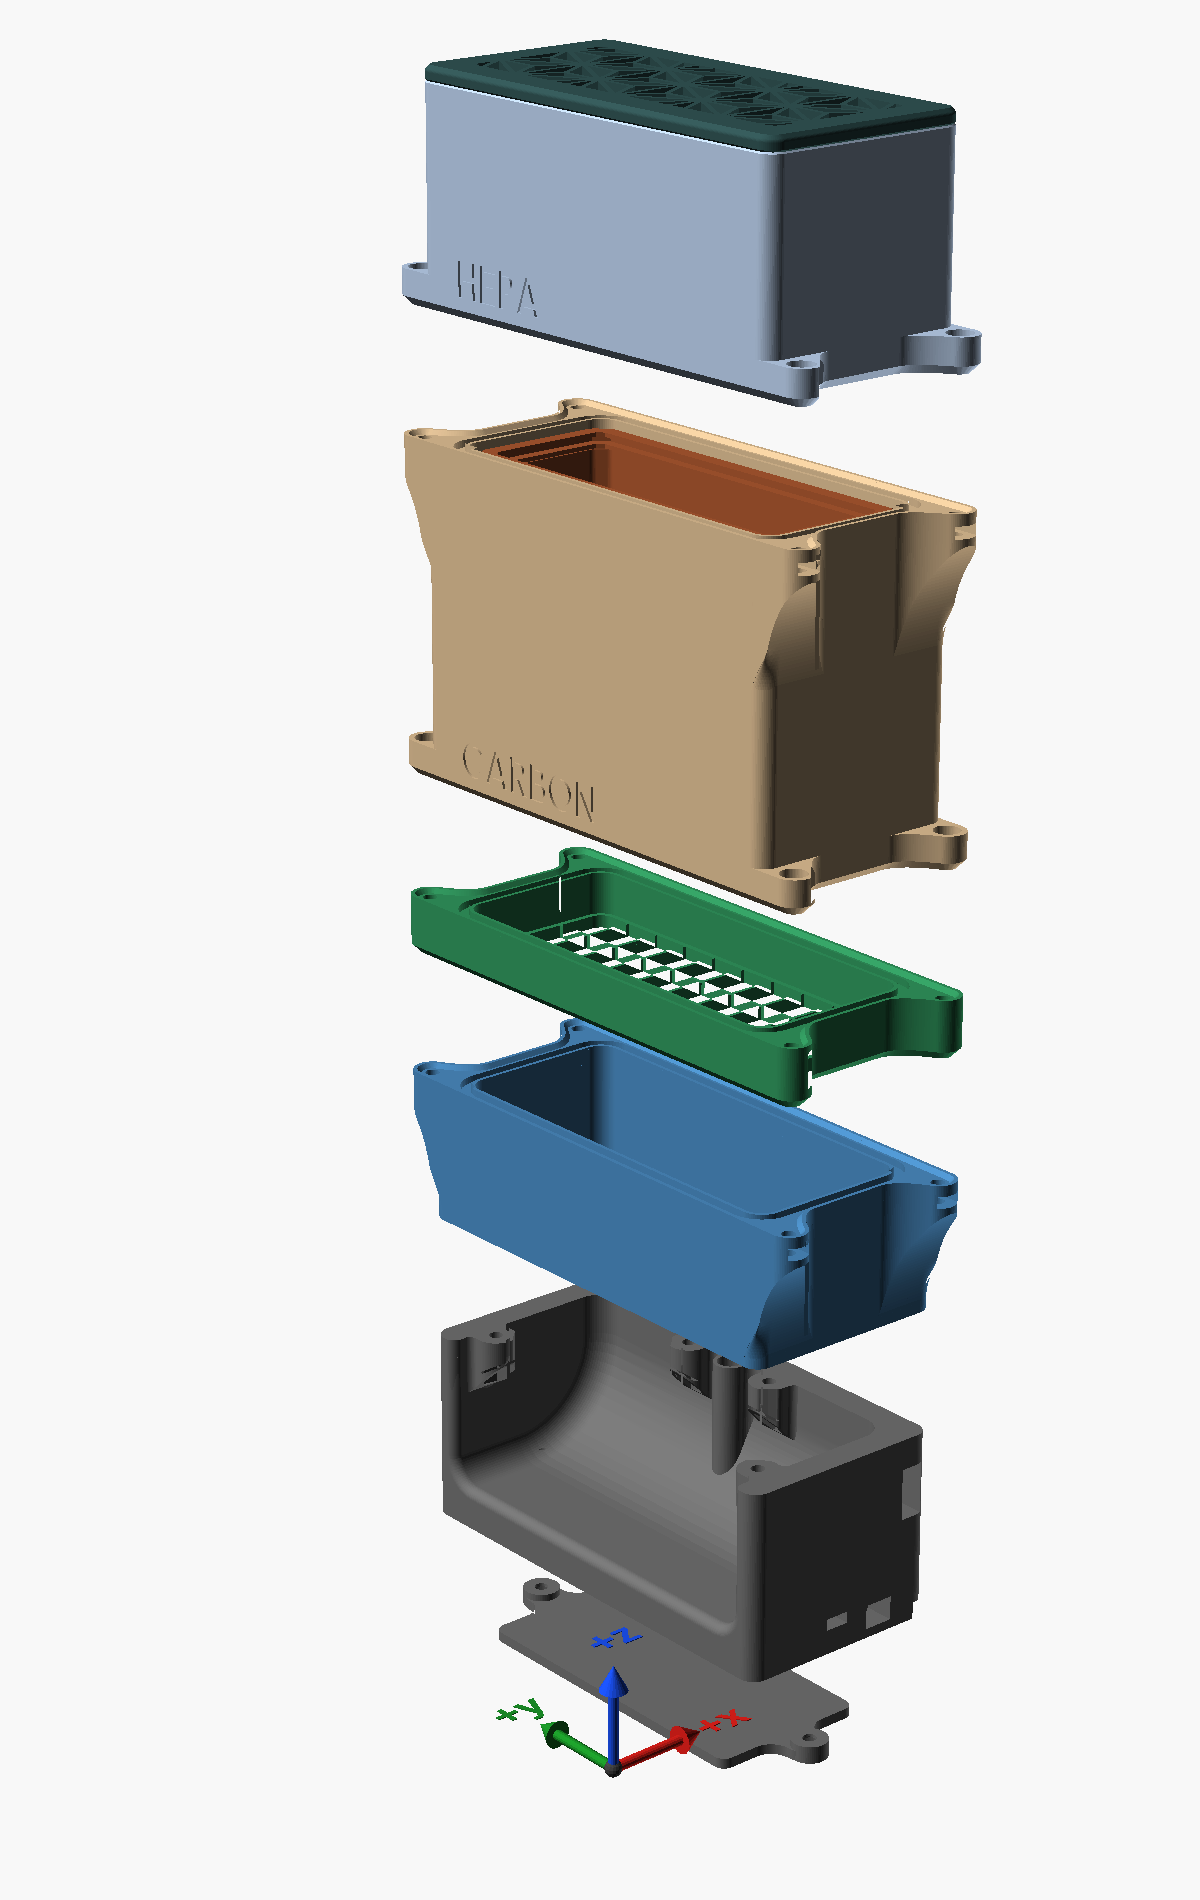
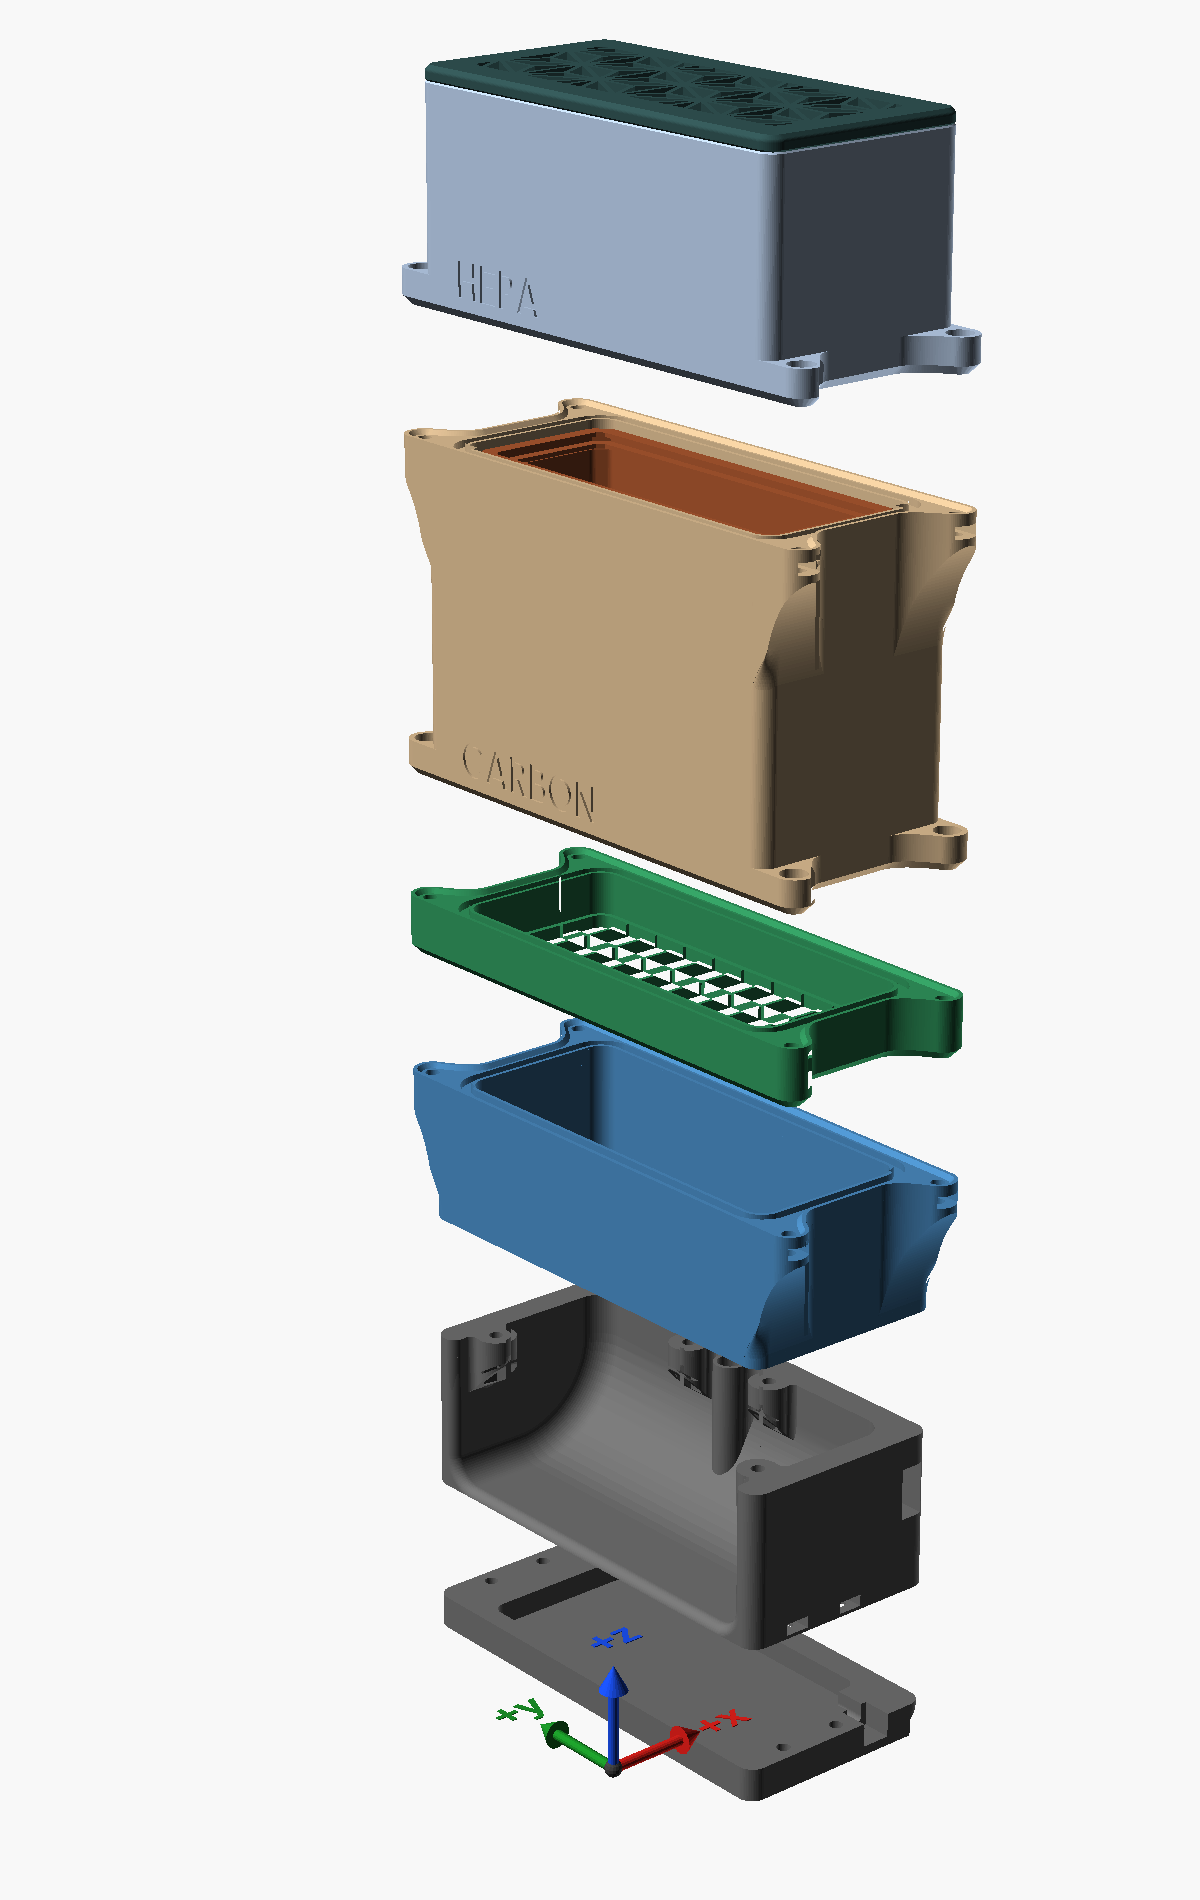
feat(bentobox): the bay a tray screwed on under the base; round posts
The Auto's base printed standing on its bottom has its bay's roof as a
bridge 41 mm across and 83 long. The base now splits at that roof (Alon,
8 Oct 2026): the base prints standing on its floor, and the bay is a tray
of its own - the floor that was the Auto's plate, the walls, the end
blocks, the cable port and the magnets' holes - printed on its floor,
open at the top. The tray is drawn from flat cuts of the base, not from
its STL, every outline from one cut; its +X step's ceiling is a 45-degree
chamfer, so nothing overhangs.

Four M3 x 10 screws come up through the tray's ends, heads sunk, into
nuts in slots in the base's end walls that open out through the end
faces, 0.8 mm over the base's bottom so each slot's back keeps two beads
under the end wall's fillet. The plate, its lobes and its two screws are
gone; bentobox-auto-plate.scad is now bentobox-auto-tray.scad.

The fan screws' posts are round on their axes, no longer cut back from
the fans' air: each reaches 0.69 mm in under its fan's opening, which
check_auto_air now allows up to post_air_bite.

Checks: check_auto_plate becomes check_auto_tray, and check_tray_slot_walls
keeps two beads of the end wall round each slot; 28 fits, 35 controls.

Changed region(s): [[0.4933, 0.8384, 0.7708, 0.9626], [0.37, 0.7763, 0.5242, 0.9005]]

diff --git a/scripts/bentobox-checks.py b/scripts/bentobox-checks.py
@@ -41,7 +41,7 @@ FITS = [("check_section_carbon", UNSEALED), ("check_section_fans", UNSEALED), ("
         ("check_magnets_bottom", UNSEALED), ("check_air", []),
         ("check_clamp_holder", []), ("check_clamp_frames", []), ("check_clamp_paper", []),
         ("check_clamp_opening", []), ("check_clamp_screws", []), ("check_clamp_nuts", []), ("check_clamp_nut_ways", []),
-        ("check_auto_fans_base", []), ("check_auto_plate", []), ("check_auto_nuts", []), ("check_auto_nut_ways", []),
+        ("check_auto_fans_base", []), ("check_auto_tray", []), ("check_tray_slot_walls", []), ("check_auto_nuts", []), ("check_auto_nut_ways", []),
         ("check_auto_screws", []), ("check_auto_wires", []), ("check_auto_air", []),
         ("check_seal_j1", []), ("check_seal_j2", []), ("check_seal_j3", []), ("check_seal_beads", []),
         ("check_seal_screws", []), ("check_seal_nuts", []), ("check_seal_nut_ways", []), ("check_seal_access", [])]
@@ -67,15 +67,15 @@ CONTROLS = [
     ("check_clamp_paper", [("tooth_w", "4")], "the clamp's teeth made wider than theirs"),
     ("check_clamp_paper", [("flap_off", "0")], "the half wedges' faces moved in onto the flaps' middles"),
     ("check_auto_fans_base", [("auto_fans_dz", "-30.5")], "the Auto's fan section set 0.5 mm down into its base"),
-    ("check_auto_plate", [("plate_t", "3")], "the plate made 0.5 mm thicker than its recess is deep"),
-    ("check_auto_plate", [("lobe_play", "-0.3")], "the base's pockets made smaller than the plate's lobes"),
+    ("check_auto_tray", [("tray_top", "14.3")], "the tray made 0.3 mm taller than the bay's roof"),
+    ("check_tray_slot_walls", [("tray_screw_y", "51.4")], "the tray's screws moved 1 mm in, their slots' backs under the end walls' fillets"),
     ("check_auto_nuts", [("nut_fit", "-0.3")], "the nuts' slots and pockets made narrower than a nut"),
-    ("check_auto_nut_ways", [("nut_slot_out", "1")], "the plate's nut slots cut only 1 mm past their screws: no way in"),
+    ("check_auto_nut_ways", [("tray_slot_past", "-3")], "the tray's nut slots stopped 3 mm inside the end faces: no way in"),
     ("check_auto_nut_ways", [("pull_rise", "3")], "the fans' nut pockets started 3 mm up their posts' undersides: no way in"),
     ("check_auto_nuts", [("pull_fit", "-0.25")], "the fans' nut seats made narrower than a nut"),
     ("check_auto_screws", [("screw_shift", "[1, 0]")], "the screws moved 1 mm off their holes"),
     ("check_auto_wires", [("wire_shift", "1.5")], "the wires moved 1.5 mm off the tube"),
-    ("check_auto_air", [("post_clear_air", "false")], "the fan screws' posts left round, under the fans' openings"),
+    ("check_auto_air", [("post_air_bite", "0.4")], "the round posts allowed only 0.4 mm in under the fans' openings"),
     # The sealed joints. collar_play narrows the upper parts' chamfers, not the collars; bead_side the grooves,
     # not the beads; bracket_h reaches the carbon housing's top brackets down over the section's screws.
     ("check_seal_j1", [("collar_play", "-0.4")], "the section's chamfer cut back less than the fan section's collar"),

diff --git a/docs/bentobox-scrubber.md b/docs/bentobox-scrubber.md
@@ -8,12 +8,13 @@ other. Two 40 mm fans in the fan case pull it down and blow it into the duct, wh
 side, at the floor. It is built for the two Delta EFB0412VHD this build has, 40 × 40 × 20 mm.
 
 **Its bottom is the BentoBox Auto's** (see *The bottom*): the same duct, its floor raised over a bay for the
-electronics, with a tube down to it for the wires, and nuts where the Auto had heat-set inserts.
+electronics, with a tube down to it for the wires, and nuts where the Auto had heat-set inserts. The bay is a
+tray of its own, screwed on underneath.
 
 **Its joints under suction are sealed** (see *The sealed joints*): a TPU bead in a groove at each, and four
 screws in tabs at the corners, where the original has magnets.
 
-![The stack pulled apart: the cover, the HEPA holder, the carbon housing with the C-MAG in it, the section, the fan section, the base, the plate under its bay; tabs at the corners of the three sealed joints](bentobox/exploded.png)
+![The stack pulled apart: the cover, the HEPA holder, the carbon housing with the C-MAG in it, the section, the fan section, the base, the tray under it; tabs at the corners of the three sealed joints](bentobox/exploded.png)
 
 **It takes its HEPA as a cartridge:** a bought one, 80 × 40 × 15 mm, rests on a ledge in its holder. Or
 the HEPA paper this build already has, pleated 20 mm deep, in the remix's frame (see *Your own HEPA
@@ -26,9 +27,9 @@ The remix adds four parts, takes its bottom from the BentoBox Auto, and seals th
 | **Section** | Goes between the carbon housing and the fan section, holding a flat filter sheet that stops carbon dust reaching the fans. Sealed at both its faces, with a pillar at each corner that the carbon housing's screws pass through. `sealed = false` builds it with the original's tongue, groove and magnets, to drop into any BentoBox v2.0 stack. | [`bentobox-section.scad`](../models/bentobox/bentobox-section.scad) |
 | **Paper clamp** | Two ASA frames, screwed together with a cut piece of pleated paper between them, standing on the HEPA holder's ledge in place of the cartridge: wedges from above and teeth from below pinch the paper's cut ends, and a bar from each its long edges. | [`bentobox-clamp-lower.scad`](../models/bentobox/bentobox-clamp-lower.scad), [`bentobox-clamp-upper.scad`](../models/bentobox/bentobox-clamp-upper.scad) |
 | **Clamp sample** | One end of each frame, on one plate: to try the pinch on an offcut before the whole clamp. | [`bentobox-clamp-sample.scad`](../models/bentobox/bentobox-clamp-sample.scad) |
-| **Base** | The Auto's, in place of the duct: the bay under it, the wires' tube, and six nuts where it had heat-set inserts: the fans' four pulled up into pockets, the plate's two in slots. | [`bentobox-auto-base.scad`](../models/bentobox/bentobox-auto-base.scad) |
+| **Base** | The Auto's, in place of the duct, cut off at its bay's roof: the wires' tube, the fans' four nuts pulled up into pockets where it had heat-set inserts, and four nuts in slots for the tray's screws. | [`bentobox-auto-base.scad`](../models/bentobox/bentobox-auto-base.scad) |
 | **Fan section** | The Auto's, in place of the fan case, its top remixed for the sealed joint. | [`bentobox-auto-fans.scad`](../models/bentobox/bentobox-auto-fans.scad) |
-| **Plate** | The Auto's outline, closing the bay: flush with the base's bottom, its two screws' heads sunk in it. | [`bentobox-auto-plate.scad`](../models/bentobox/bentobox-auto-plate.scad) |
+| **Tray** | The Auto's bay, split off its base: the floor, the walls, the cable port and the magnets' holes, screwed on under the base with four screws, their heads sunk in its bottom face. | [`bentobox-auto-tray.scad`](../models/bentobox/bentobox-auto-tray.scad) |
 | **Carbon housing** | ThrutheFrame's, remixed for the sealed joints: a collar, the bead's groove and the nuts' tabs on top, the screws' tabs underneath. | [`bentobox-carbon.scad`](../models/bentobox/bentobox-carbon.scad) |
 | **HEPA holder** | ThrutheFrame's, its bottom remixed to sit sealed on the carbon housing, and its pocket cut out to the box's whole inside, for a bigger piece of paper. | [`bentobox-hepa.scad`](../models/bentobox/bentobox-hepa.scad) |
 | **Bead ring** | Three, in TPU: the gasket in each sealed joint. | [`bentobox-bead-ring.scad`](../models/bentobox/bentobox-bead-ring.scad) |
@@ -75,8 +76,8 @@ The base and the fan section are Strangwooduk's, from the
 [BentoBox Auto VOC Sensor system](https://makerworld.com/en/models/1882240), a remix of ThrutheFrame's box.
 
 - **The base is ThrutheFrame's duct**, the same walls and the same curved floor, with the floor raised about
-  11 mm over a **bay for the electronics**: about 40 × 95 mm and 7 mm tall, closed by a plate on two screws.
-  The base is 46 mm tall where the duct is 52.
+  11 mm over a **bay for the electronics**, 40.8 × 82.8 mm and 5.5 mm deep. The Auto closes it with a plate on
+  two screws; here it is a tray (see *The tray*). Base and tray are 46 mm tall where the duct is 52.
 - **A tube carries the wires down**: a 6 mm hole in the fan section's floor between the fans, and a tube
   under it through the base to the bay. The two fans' leads go down it; a 4.5 mm bundle passes.
 - **The air leaves the same way**: out of the whole long side, 101 × 37 mm (3,700 mm²) where the duct's
@@ -93,29 +94,44 @@ controller in the bay. Neither is used here. This build's sensors (the same as t
 **in the base's outlet**, where they read the air after the carbon; the chamber's own monitor reads the air
 before it. Their mount is not drawn yet.
 
-![The bottom pulled apart, from the outlet's side: the fan section, the screws, the base with a nut's pocket under each post, the plate under its bay](bentobox/auto-bottom.png)
+![The bottom pulled apart, from the outlet's side: the fan section, the screws, the base with a nut's pocket under each post, the tray under it, and its four screws](bentobox/auto-bottom.png)
 
-**Nuts, not heat-set inserts.** The fans' nuts are pull nuts; the plate's lie flat in slots that open one way.
+**Nuts, not heat-set inserts.** The fans' nuts are pull nuts; the tray's lie flat in slots that open one way.
 
 - **The fans' four screws**, M3 × 30, come down through each fan and the fan section's floor into a pull
   nut, in a post. The Auto has a lug under each insert, hung from its wall: round at its end, its sides on
   fillets into the wall, straight down and then on a round into a 45° underside that meets the wall. Each post
-  is that lug made big enough for a nut, seamless with the wall and the base's top, and it holds the Auto's
-  lug inside it. A hex pocket runs up it on the screw's axis, open under the post, into a tight seat 2 mm under
-  the base's top; a screw from above pulls the nut up into the seat, and it stays there. Each pocket has a flat
-  5° off the nearer fan, so it keeps 0.9 mm of wall to the fan's air - the post is cut back clear of it - and
-  0.14 mm to its wall's face. The base's top is cut 0.05 mm down so the posts' tops are its own; the fan
-  section stands that much lower.
-- **The plate's two screws**, M3 × 8 socket head, come up through counterbores in the plate, their heads
-  sunk 0.2 mm inside the bottom face, into nuts in slots that open out through the end walls, so a nut goes
-  in from outside. The plate fills its recess, flush with the base's bottom, and each counterbore is in a
-  lobe that rises into a pocket in the base. The screws sit 1.6 mm nearer the end walls than the Auto's, where
-  the duct's floor stands high enough over them.
-- Each slot's roof, each nut pocket's, each counterbore's, and each lobe's pocket's starts with two bridging
-  layers, a channel and then a square, so the screw's hole prints over it without support.
+  is round, on the screw's axis, running into the wall on fillets as the lug does, seamless with the wall and
+  the base's top, and it holds the Auto's lug inside it. A hex pocket runs up it on the screw's axis, open
+  under the post, into a tight seat 2 mm under the base's top; a screw from above pulls the nut up into the
+  seat, and it stays there. Each pocket has a flat 5° off the nearer fan, so it keeps 0.9 mm of wall to the
+  fan's air, and 0.14 mm to its wall's face. Round, each post reaches 0.69 mm in under the edge of its fan's
+  opening in the fan section's floor, towards the fan's corner: about 2 mm² of the opening's 1,075. The base's
+  top is cut 0.05 mm down so the posts' tops are its own; the fan section stands that much lower.
+- Each nut pocket's roof, and each slot's, starts with two bridging layers, a channel and then a square, so the
+  screw's hole prints over it without support.
 
-**Putting it together:** a nut in each end wall's slot, then the plate on with its two screws. Then the
-fans' nuts, from the open top of the base: slide each nut in under its post, push it up the pocket, and pull
+**The tray.** The Auto's base prints standing on its bottom, and its bay's roof - the duct's floor - is then a
+bridge 41 mm across and 83 mm long. The remix splits the base there (Alon, 8 Oct 2026). The base prints standing
+on its floor, flat on the bed; the bay is a tray of its own - the floor that was the Auto's plate, the walls round
+the bay, and the ends' blocks, with the base's own outline, its cable port and its four magnet holes - and prints on
+its floor, open at the top.
+
+- **Its four screws**, M3 × 10 socket head, two at each end, come up through counterbores in the tray, their
+  heads sunk 0.2 mm inside its bottom face, into nuts in slots in the base's end walls, just over the bay's
+  roof. Each slot opens out through the end face: a nut goes in from outside and slides to the slot's end, on
+  its screw's axis. A slot has 0.8 mm under it, four layers, which the nut presses onto the tray's top; low like
+  that, its back keeps two beads under the end wall's fillet. The screws stand clear of the magnets' holes and,
+  at the -Y end, of the cable port.
+- **The cable port** is the Auto's, through the -Y end wall: a mouth 7.4 mm wide and then a 4.5 mm hole on to
+  the bay. In the tray both are open over the top, and the base's flat bottom closes them.
+- **The step.** Along the +X side, the Auto's bottom steps back 4 mm, up to 10 mm. In the tray the step's
+  ceiling is a 45° chamfer, so the tray prints with nothing overhanging; the room under the step is all still
+  there.
+
+**Putting it together:** a nut in each of the four slots in the end faces, pushed to the slot's end, then the
+tray under the base with its four screws; it comes off again from below, for the electronics. Then the fans'
+nuts, from the open top of the base: slide each nut in under its post, push it up the pocket, and pull
 it into the seat with a spare M3 screw from above; take the screw out, and the nut stays. The fans' leads down
 the tube; the fan section on the base, the fans in it, and their four screws down through them. The seat's
 fit is a first guess: try it on the joint sample first (see *The sealed joints*).
@@ -125,7 +141,7 @@ fit is a first guess: try it on the joint sample first (see *The sealed joints*)
 
 **Seal the wires' hole.** The hole in the fan section's floor opens above the floor, into the fans' intake,
 the lowest pressure in the box, about 97 Pa under the chamber's. The tube under it opens into the bay, and
-the bay is open to the chamber: the Auto's cable ports, the gap round the plate, the plate's nut slots. Air
+the bay is open to the chamber: the cable port, and the tray's joint. Air
 drawn in that way passes neither filter. Through the 6 mm hole with the fans' leads in it, as an orifice,
 that is up to about 0.09 L/s, a seventh of the flow. Seal it round the leads where they pass the floor: hot
 glue, or a TPU grommet. The LunchBox's wire hole had the same fault, and it let in a fifth of its air.
@@ -253,9 +269,9 @@ pinches it. Anything from 28 to 30 folds in 100 mm gives the same parts.
 ## Printing
 
 The cover and the C-MAG print as the author's project lays them out; the remix's parts print as their files
-draw them, standing on their bottoms - the section, the base, the fan section, the carbon housing
-and the HEPA holder - the clamp's lower frame on its rim and its upper frame turned over onto its band, the
-plate on its outer face, its lobes up, and a bead ring flat. No supports, no brim. Standing, the base's bay roof is a 41 mm bridge, as the Auto has it.
+draw them, standing on their bottoms - the section, the base on its floor, the tray, the fan section, the
+carbon housing and the HEPA holder - the clamp's lower frame on its rim and its upper frame turned over onto its
+band, and a bead ring flat. No supports, no brim.
 
 | Part | Material | Count | Time | Filament |
 |---|---|---|---|---|
@@ -263,9 +279,9 @@ plate on its outer face, its lobes up, and a bead ring flat. No supports, no bri
 | Clamp, lower frame | ASA | 1 | 1 h 32 m | 11 g |
 | Clamp, upper frame | ASA | 1 | 1 h 19 m | 9 g |
 | Clamp sample | ASA | 1 plate | 1 h 6 m | 7 g |
-| Base | ASA | 1 | 4 h 17 m | 44 g |
+| Base | ASA | 1 | 3 h 35 m | 37 g |
 | Fan section | ASA | 1 | 3 h 42 m | 36 g |
-| Plate | ASA | 1 | 37 m | 8 g |
+| Tray | ASA | 1 | 1 h 31 m | 17 g |
 | Carbon housing | ASA | 1 | 7 h 23 m | 71 g |
 | HEPA holder | ASA | 1 | 4 h 39 m | 45 g |
 | Bead ring | TPU 95A | 3 | 9 m each | 1 g each |
@@ -280,9 +296,9 @@ For the bottom:
 
 | Quantity | Item |
 |---|---|
-| 6 | M3 hex nut, ISO 4032 |
+| 8 | M3 hex nut, ISO 4032 |
 | 4 | M3 × 30 socket head cap screw, ISO 4762: the fans |
-| 2 | M3 × 8 socket head cap screw, ISO 4762: the plate, their heads sunk |
+| 4 | M3 × 10 socket head cap screw, ISO 4762: the tray, their heads sunk |
 
 For the sealed joints:
 
@@ -409,10 +425,11 @@ holes. It runs the air's way from the housing's floor openings down through the 
 upper frame on the lower one - meeting only at the end blocks - lays a model of the paper, drawn from its own
 values at the slot's thickness, in the frames' zigzag, keeps the air's way down under the paper open, and
 runs the four screws through the end blocks and the nuts into their seats and down out of them. For the bottom it stands the fan
-section on the base and the plate in its recess, sets a nut in each slot and slides it out through the
-slot's mouth, and one in each fan screw's seat and draws it down its pocket and out under its post, runs each screw from its head to its tip, and the wires down the tube, and the fans' air
-down into the base past the posts. Each must come out empty. Every check has a positive control,
-something broken on purpose that it must catch, and the run fails if one passes unnoticed: 27 fits and
+section on the base and the base on the tray, sets a nut in each of the tray's slots and slides it out through
+the end face, and one in each fan screw's seat and draws it down its pocket and out under its post, keeps two
+beads of the end wall round each tray slot and its screw's hole, runs each screw from its head to its tip, and
+the wires down the tube, and the fans' air down into the base past the posts. Each must come out empty. Every check has a positive control,
+something broken on purpose that it must catch, and the run fails if one passes unnoticed: 28 fits and
 35 controls.
 
 [`bentobox.params.scad`](../models/bentobox/bentobox.params.scad) holds the original's dimensions, measured
@@ -421,7 +438,7 @@ by sectioning its STLs, and every setting of the section and of the paper's fram
 ## Credit and licence
 
 BentoBox v2.0 is © ThrutheFrame, under [CC BY-NC-SA 4.0](https://creativecommons.org/licenses/by-nc-sa/4.0/).
-The BentoBox Auto VOC Sensor system, whose base, fan section and plate the bottom is, is © Strangwooduk,
+The BentoBox Auto VOC Sensor system, whose base and fan section the bottom is, is © Strangwooduk,
 under the same licence as a remix of it.
 The remix — the models in [`models/bentobox/`](../models/bentobox/) and the pictures in [`bentobox/`](bentobox/)
 — is under CC BY-NC-SA 4.0 too: free to use and share, not for sale.
